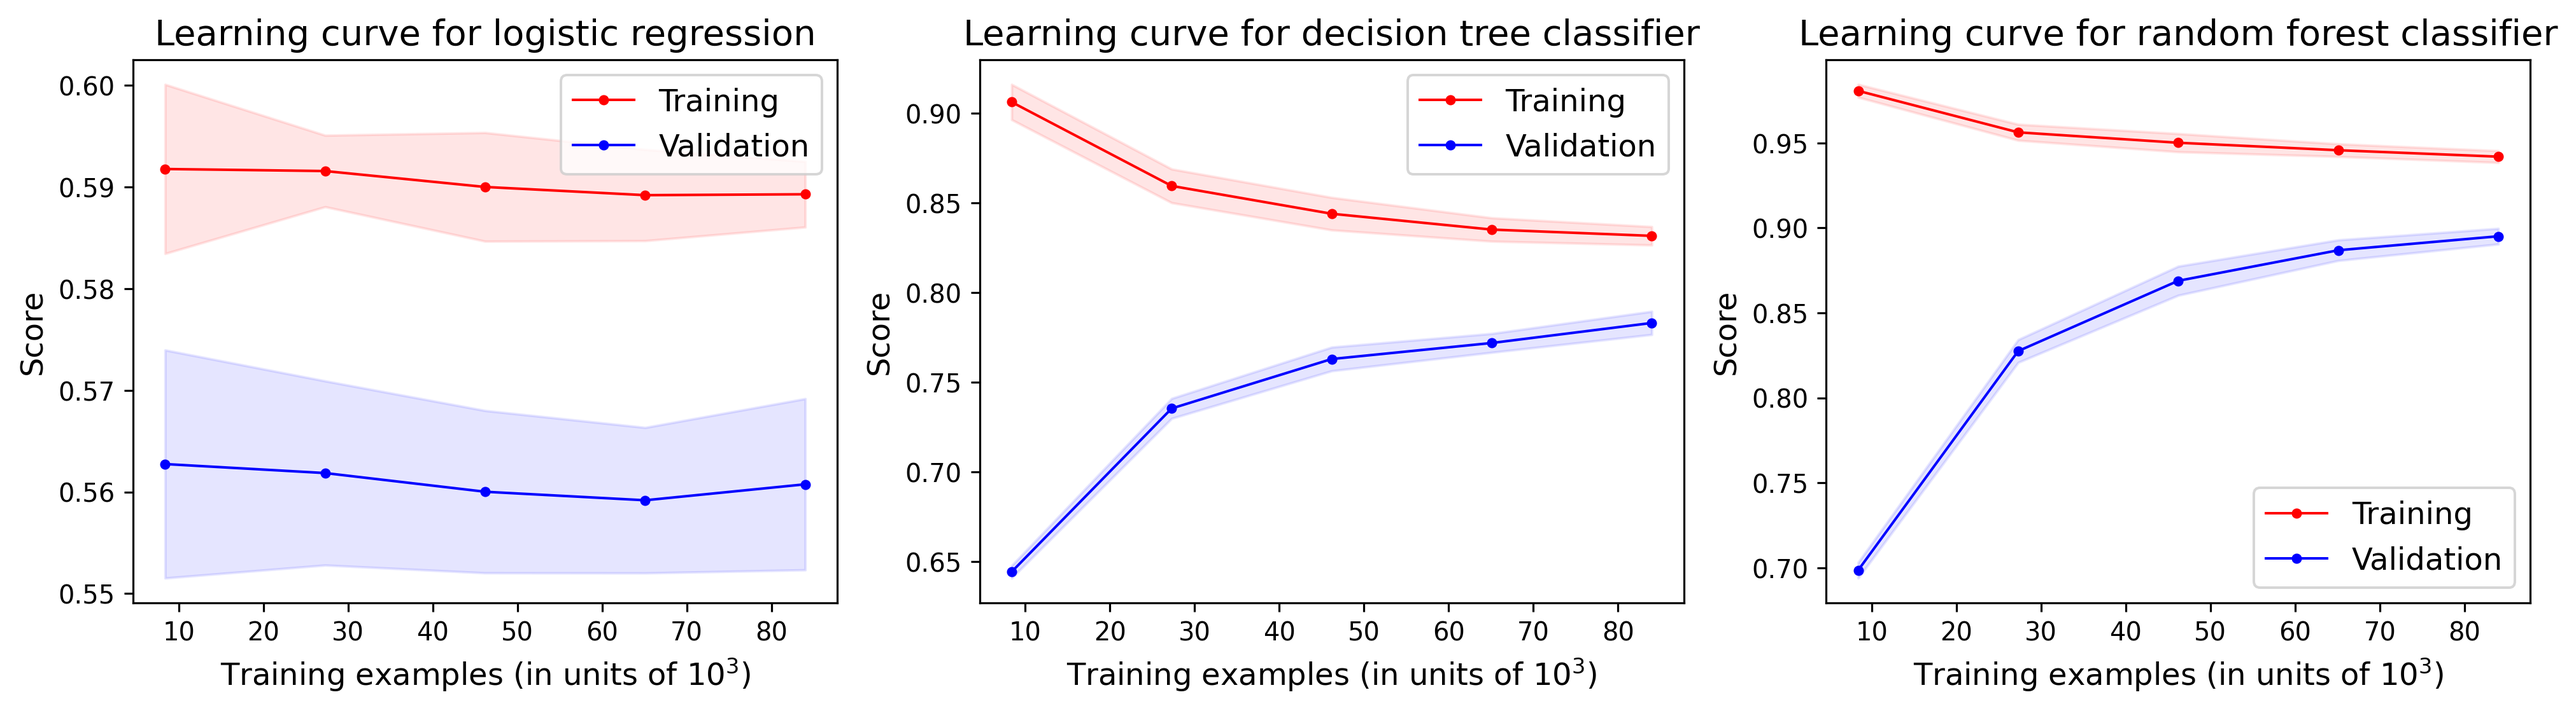
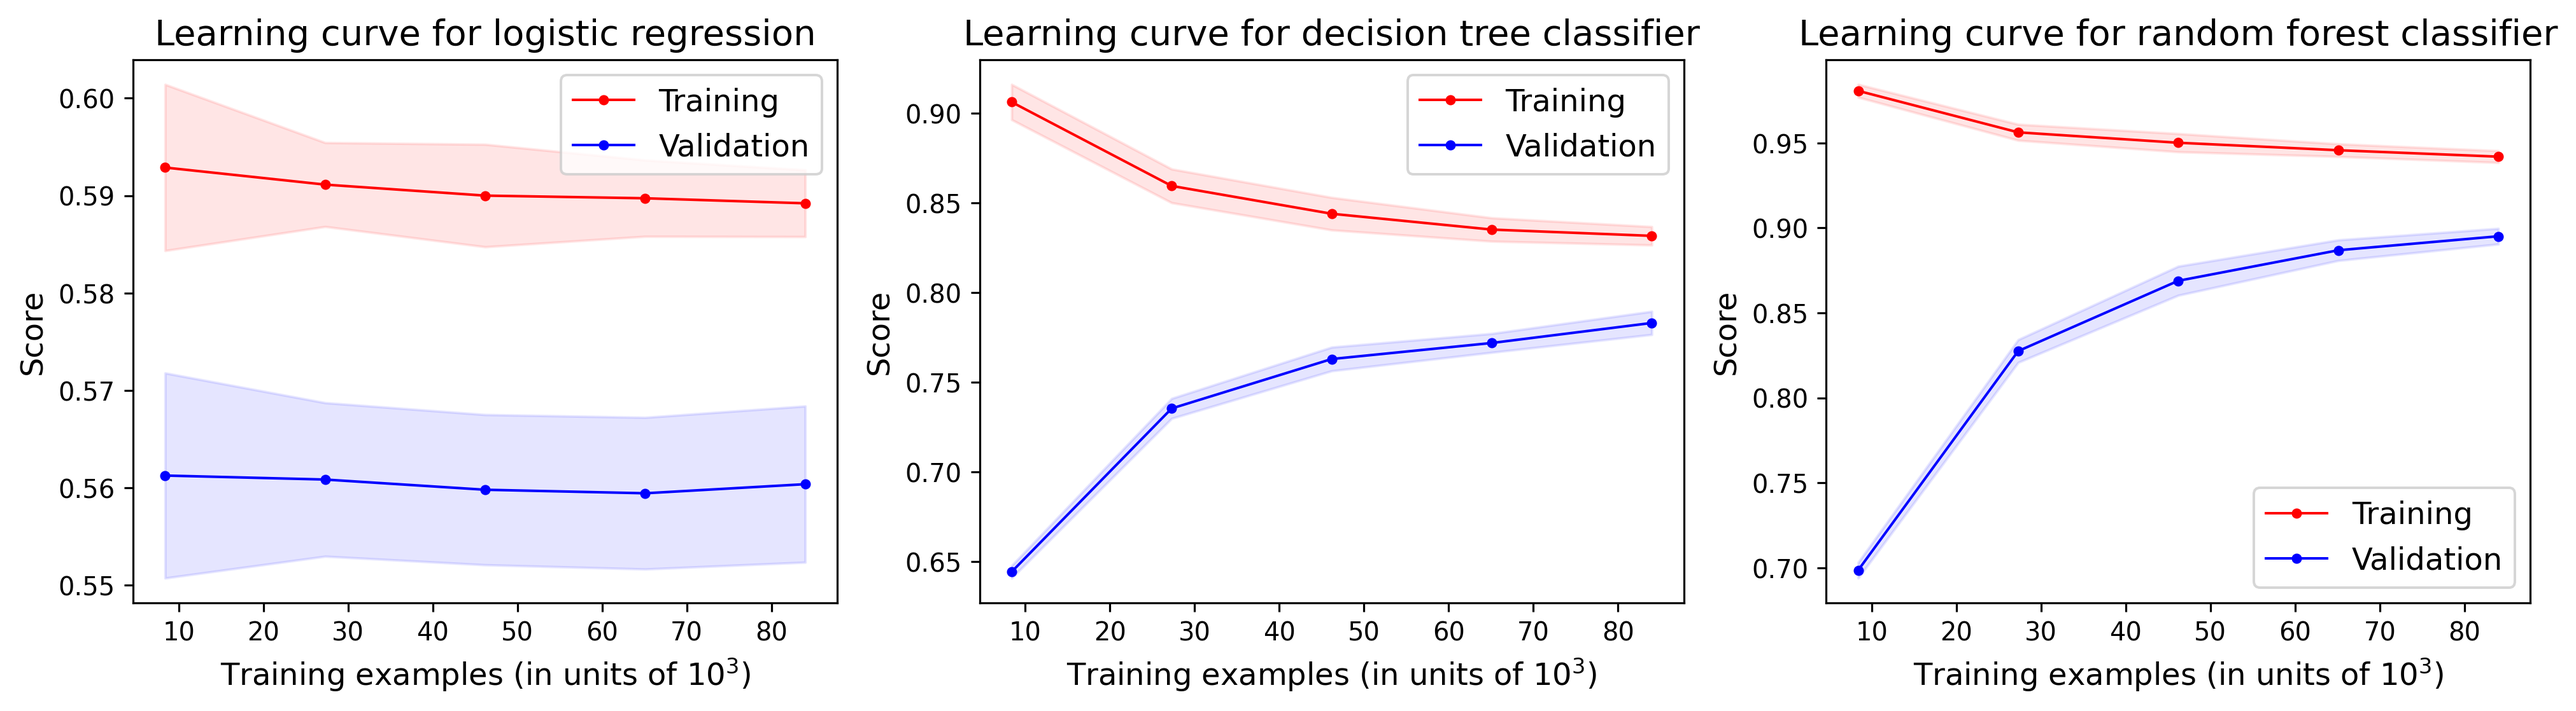
Best parameters for LR: C=1e3

diff --git a/modeling.py b/modeling.py
@@ -18,7 +18,7 @@ X = df.drop('readmitted', axis=1)
 y = df.loc[:, 'readmitted']
 X_train, X_test, y_train, y_test = train_test_split(X, y, test_size=0.3, random_state=42)
 
-model_dict = {'Logistic regression': LogisticRegression(n_jobs=-1, C=0.01,
+model_dict = {'Logistic regression': LogisticRegression(n_jobs=-1, C=1e3,
                                                         solver='newton-cg'),
               'Decision tree classifier': DecisionTreeClassifier(max_depth=16,
                                                                  random_state=42),
@@ -38,7 +38,8 @@ with open(work_dir / 'stats_output_update.txt', 'w') as f:
         y_pred_results.append(y_pred)
         y_pred_proba = model.predict_proba(X_test)
         y_pred_proba_results.append(y_pred_proba)
-        f.writelines(f'Accuracy of the {name.lower()} on test set: {model.score(X_test, y_test):.4f}\n')
+        f.writelines(f'Accuracy of the {name.lower()} on the test set: '
+                     f'{model.score(X_test, y_test):.4f}\n')
     f.writelines('\n')
 
     # confusion matrix with plot

diff --git a/learning_curves_plot.py b/learning_curves_plot.py
@@ -36,7 +36,7 @@ def learning_curves_data(estimator, X, y, cv=5, train_sizes=train_sizes):
     return train_sizes, train_scores_mean, train_scores_std, val_scores_mean, val_scores_std
 
 
-model_dict = {'Logistic regression': LogisticRegression(n_jobs=-1, C=0.01,
+model_dict = {'Logistic regression': LogisticRegression(n_jobs=-1, C=1e3,
                                                         solver='newton-cg'),
               'Decision tree classifier': DecisionTreeClassifier(max_depth=16,
                                                                  random_state=42),
